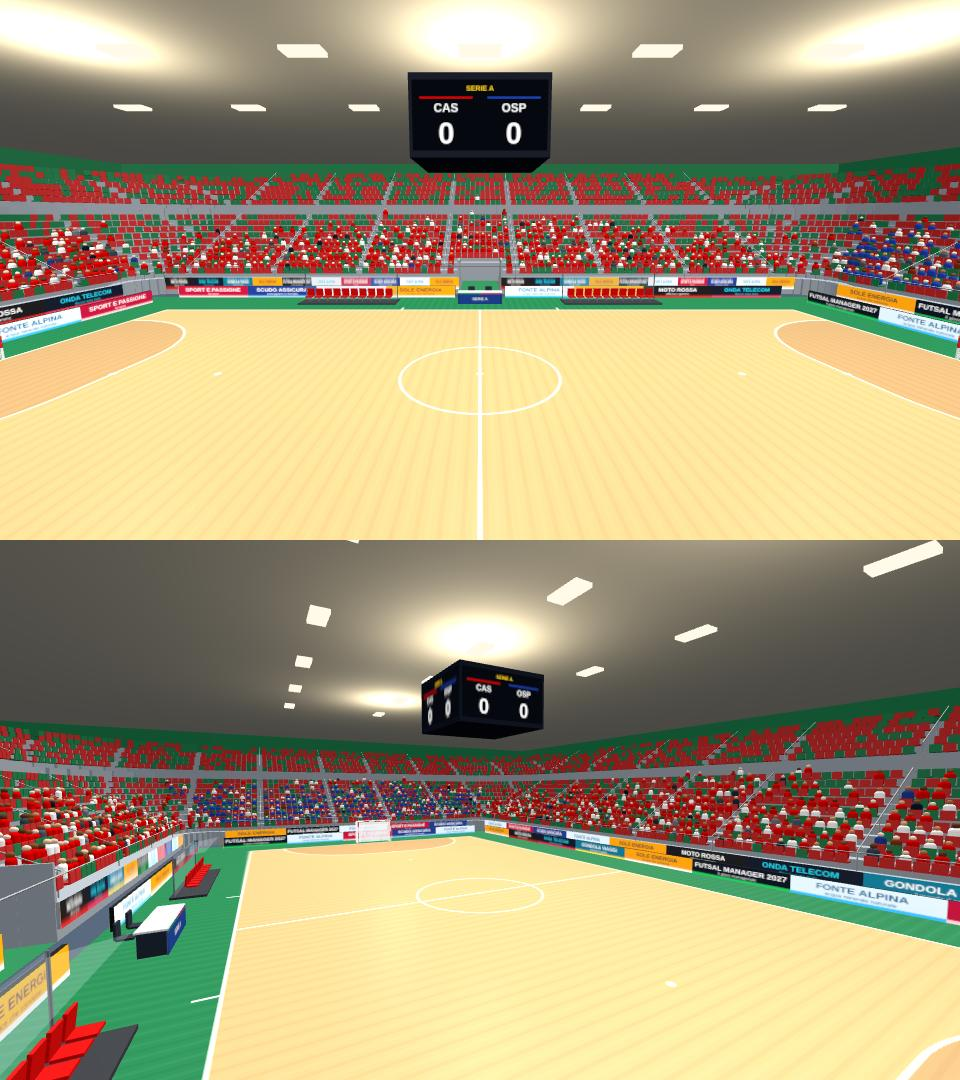
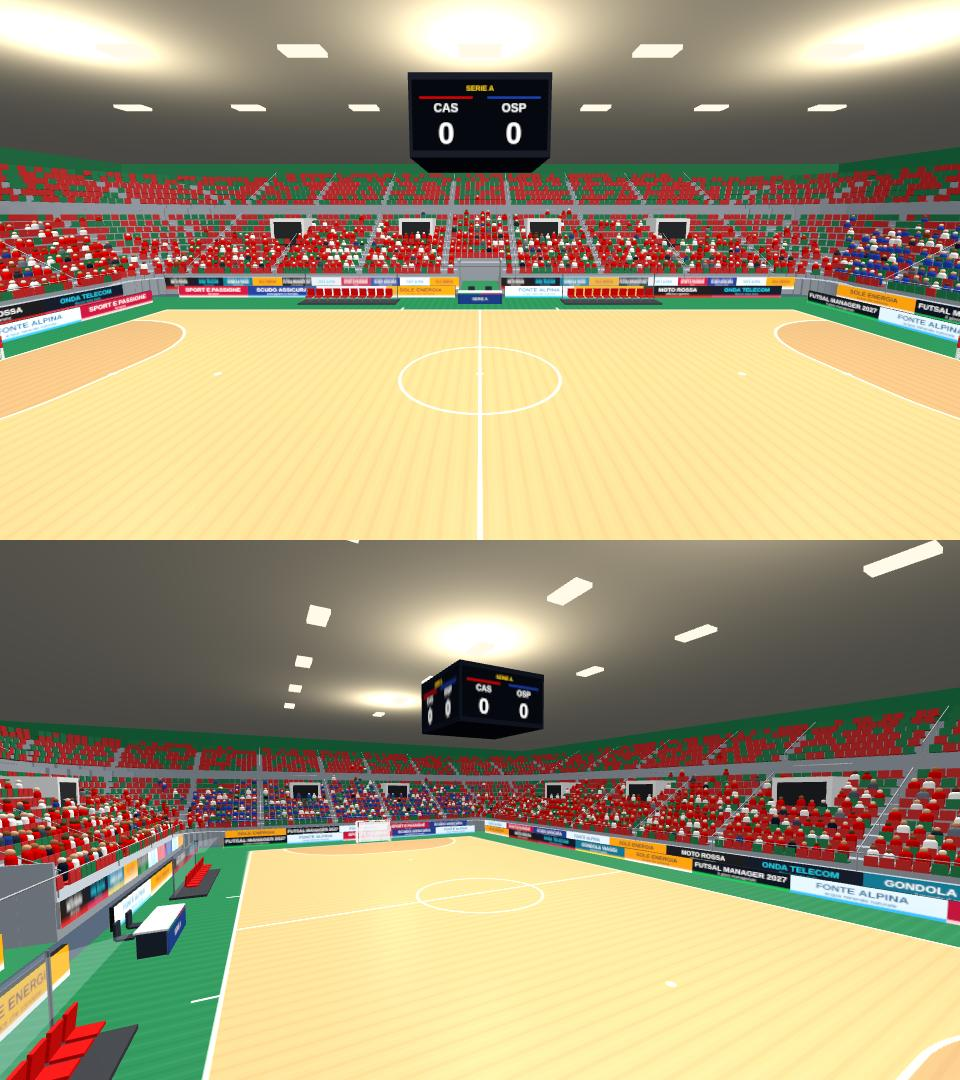
Pavilhões: entradas de setor (vomitórios) nas bancadas; Pala Del Mauro
Claude-Session: https://claude.ai/code/session_01Mc5vYwTA69tBmW3UkQyR97

Changed region(s): [[0.0, 0.1528, 1.0, 0.275], [0.0, 0.6417, 1.0, 0.825]]

diff --git a/src/core/attendance.ts b/src/core/attendance.ts
@@ -45,6 +45,7 @@ export interface ArenaProfile {
   aisles?: number; // escadas: um corredor a cada N lugares
   rake?: number; // subida por fila (m), 0,42 por omissão; bancadas mais íngremes > 0,42
   seatText?: { side: 'N' | 'S' | 'E' | 'W'; text: string; color: string }; // letras desenhadas com cadeiras de outra cor
+  vomitories?: number; // entradas de setor (vomitórios) em cada lateral (metade nos topos)
   rails?: string; // corrimãos metálicos ao longo das escadas e na frente das bancadas (cor)
   roofGap?: number; // espaço (m) entre a última fila e o teto (6 por omissão; bancadas quase até ao teto: ~2)
   track?: number; // pista de atletismo à volta da quadra: largura (m) que afasta as bancadas
@@ -100,7 +101,7 @@ export const ARENAS_ITA: Record<string, ArenaProfile> = {
   nap: { name: 'PalaVesuvio', capacity: 3711, capacityReal: true, track: 7, style: 'municipal', sides: ['N', 'S', 'E', 'W'], corners: true, seat: '#e5e7eb', wall: '#d6d8db', roof: 'treliça', windows: true, truss: '#4b5563', structure: 'trelicas', ceiling: '#2b2f36', aisles: 12, floor: IT_BLUE },
   l84: { name: 'Pala Maggiore', capacity: 1000, capacityReal: false, style: 'municipal', sides: ['N', 'S'], seat: '#b3262d', wall: '#efe9dc', roof: 'treliça', windows: true, beams: '#8a5a32', structure: 'vigas', ceiling: '#c9a27a', aisles: 12, floor: { court: '#d9b27a', surround: '#d9b27a', wood: true } },
   ebo: { name: 'PalaSele', capacity: 8000, capacityReal: true, style: 'moderno', sides: ['N', 'S', 'E', 'W'], corners: true, seat: '#1f4fb0', seatMix: ['#1f4fb0', '#9aa1a8'], wall: '#6b4a32', roof: 'abóbada', windows: false, beams: '#a0622f', structure: 'cupula', ceiling: '#8a5a30', truss: '#c9ced4', upperTier: true, tierGap: 'corredor', aisles: 14, rake: 0.5, floor: { court: '#1f5fd0', surround: '#7fe0c0', wood: true } },
-  ave: { name: 'Pala Del Mauro', capacity: 5300, capacityReal: true, rails: '#d9dde2', roofGap: 1.8, style: 'moderno', sides: ['N', 'S', 'E', 'W'], corners: true, seat: '#c62828', seatMix: ['#c62828', '#1f7a4a', '#c62828'], wall: '#1f7a4a', roof: 'laje', windows: false, ceiling: '#e8e0c8', structure: 'liso', upperTier: true, tierGap: 'corredor', aisles: 12, rake: 0.5, floor: { court: '#d9b27a', surround: '#1f7a4a', wood: true } },
+  ave: { name: 'Pala Del Mauro', capacity: 5300, capacityReal: true, rails: '#d9dde2', roofGap: 1.8, vomitories: 4, style: 'moderno', sides: ['N', 'S', 'E', 'W'], corners: true, seat: '#c62828', seatMix: ['#c62828', '#1f7a4a', '#c62828'], wall: '#1f7a4a', roof: 'laje', windows: false, ceiling: '#e8e0c8', structure: 'liso', upperTier: true, tierGap: 'corredor', aisles: 12, rake: 0.5, floor: { court: '#d9b27a', surround: '#1f7a4a', wood: true } },
   tre: { name: 'PalaCicogna', capacity: 1500, capacityReal: false, style: 'municipal', sides: ['N', 'S'], seat: '#9aa1a8', wall: '#e8c547', roof: 'abóbada', windows: true, beams: '#b0753a', structure: 'arcos', ceiling: '#c98e52', aisles: 12, floor: { court: '#d9b27a', surround: '#2f8a4f', wood: true } },
   sal: { name: 'Centro Sportivo Meridionale', capacity: 800, capacityReal: false, style: 'clube', sides: ['N', 'S'], benches: true, seat: '#a8a29e', wall: '#f2f2ef', roof: 'laje', windows: true, beams: '#e3b81f', pillars: '#c9a227', ceiling: '#f2f2ef', floor: { court: '#d6a066', surround: '#d6a066', wood: true } },
   rom: { name: 'PalaCesaroni', capacity: 2000, capacityReal: true, style: 'municipal', sides: ['N', 'S'], seat: '#c62828', wall: '#2b3a8a', roof: 'abóbada', windows: false, beams: '#9a5a2a', structure: 'arcos', ceiling: '#a8683a', aisles: 12, rake: 0.46, floor: { court: '#d9b27a', surround: '#c62828', area: '#3a6fd1', wood: true } },

diff --git a/src/ui/three/arena3d.ts b/src/ui/three/arena3d.ts
@@ -575,6 +575,11 @@ export function buildArena(scene: THREE.Scene, o: ArenaOpts): ArenaHandle {
     const out = sd === 'N' || sd === 'W' ? -1 : 1; // para fora do campo
     let left = cap;
     const split = splitAt(rows);
+    // entradas de setor (vomitórios): aberturas no meio da bancada, com 3 filas de altura e 2,4 m de largura
+    const vN = pr.vomitories ? (sd === 'N' || sd === 'S' ? pr.vomitories : Math.max(1, Math.round(pr.vomitories / 2))) : 0;
+    const vU = Array.from({ length: vN }, (_, i) => (-0.5 + (i + 0.5) / vN) * (sideLen[sd] - 4)).filter((u) => !(gap && Math.abs(u) < gap / 2 + 1.5));
+    const vR0 = Math.max(1, Math.round(rows * 0.3)), vR1 = vR0 + 2;
+    const inVom = (u: number, row: number) => row >= vR0 && row <= vR1 && vU.some((x) => Math.abs(u - x) < 1.3);
     for (let rI = 0; rI < rows; rI++) {
       // segundo anel: recua e sobe, com camarotes envidraçados (ou só um corredor) no intervalo
       const up = rI >= split;
@@ -626,6 +631,7 @@ export function buildArena(scene: THREE.Scene, o: ArenaOpts): ArenaHandle {
       for (let k = 0; k < tot; k++) {
         const u = (k - (tot - 1) / 2) * seatW;
         if (pr.aisles && Math.round(Math.abs(u) / seatW) % (pr.aisles + 1) === Math.floor(pr.aisles / 2)) continue; // escadas
+        if (inVom(u, rI)) continue; // entrada de setor
         if (Math.abs(u) > gap / 2 + 0.2 || !gap || overTunnel) us.push(u);
       }
       us.sort((a, b) => Math.abs(a) - Math.abs(b));
@@ -636,6 +642,17 @@ export function buildArena(scene: THREE.Scene, o: ArenaOpts): ArenaHandle {
         if (isBench(sd, rI)) p.y -= 0.3;
         if (pr.standing) p.y += 0.4;
         seats.push({ p, ry, side: sd, row: rI, u, txt: !!textMask && pr.seatText!.side === sd && textMask(u, rI, rows, sideLen[sd]) });
+      }
+    }
+    if (vU.length) {
+      const dark = new THREE.MeshStandardMaterial({ color: '#1b1f24', roughness: 0.9 }), white = new THREE.MeshStandardMaterial({ color: '#eef0f2', roughness: 0.6 });
+      const dIn = front[sd] + vR0 * rowD, yIn = base + vR0 * rise, depth = (vR1 - vR0 + 1) * rowD, hgt = (vR1 - vR0 + 1) * rise + 1.2;
+      for (const u of vU) {
+        const put = (m: THREE.Mesh, uu: number, dd: number, yy: number) => { if (sd === 'N' || sd === 'S') m.position.set(uu, yy, out * dd); else { m.rotation.y = Math.PI / 2; m.position.set(out * dd, yy, uu); } scene.add(m); };
+        put(new THREE.Mesh(new THREE.BoxGeometry(2.4, hgt, depth), dark), u, dIn + depth / 2, yIn - 1 + hgt / 2); // boca escura do túnel de acesso
+        for (const sg of [-1, 1]) put(new THREE.Mesh(new THREE.BoxGeometry(0.25, hgt + 0.1, depth + 0.1), white), u + sg * 1.32, dIn + depth / 2, yIn - 1 + hgt / 2); // paredes brancas
+        put(new THREE.Mesh(new THREE.BoxGeometry(2.9, 0.3, depth + 0.1), white), u, dIn + depth / 2, yIn - 1 + hgt + 0.15); // laje por cima
+        if (pr.rails) put(new THREE.Mesh(new THREE.BoxGeometry(2.9, 0.05, 0.05), new THREE.MeshStandardMaterial({ color: pr.rails, metalness: 0.6, roughness: 0.35 })), u, dIn + depth + 0.05, yIn - 1 + hgt + 1.1); // grade em cima
       }
     }
     // corrimãos (ex.: Pala Del Mauro): ao longo de cada escada, a subir com os degraus, e na frente da bancada

diff --git a/HANDOFF.md b/HANDOFF.md
@@ -421,5 +421,5 @@ Todas as ferramentas em `tools/diag` correm com: `npx esbuild <ficheiro> --bundl
 - PR #8 já está em `main` (aprovada pelo António).
 - Atributos (moneyball): 1 299 fichas de jogo oficiais da Serie A e play-off 2021/22-2026/27 (`tools/ita/collect_matches.py` + `build_matchstats.py`) → jogos, golos e cartões por época para 204 de 207 jogadores (épocas italianas substituem as do futsalportugal). Jogos = 5 iniciais + quem entrou; nas fichas sem substituições (muitas desde 2024/25) contam todos os da ficha (estimativa). Clubes italianos em `TEAM_LEVELS`/`LEAGUE_OF` (Serie A = 70, estimativa). Nível médio dos 8 melhores subiu ~0,9 (Roma, Catania, Giovinazzo mais). Sem assistências nem minutos (não publicados).
 - Equipamentos (3/11): 15 padrões (`KitPattern` em kits.ts, desenho comum ao 3D e SVG em `src/ui/kitPattern.ts`), mangas, gola, punhos (`cuffs`), risca lateral dos calções (`shortsStripe`) e GR real (`ClubKits.goalkeeper`, usado se não chocar). Itália: equipamentos reais dos 14 clubes a partir das fotos/notas do António (Petrarca pela descrição); imagem em `docs/equipamentos_italia.png`.
-- Pavilhões (3/11): 13 interiores italianos (`ARENAS_ITA` em attendance.ts) a partir das fotos do António; lado sem foto repete o oposto (pedido do António). Lotações do António: Del Mauro 5 300, PalaCesaroni 2 000, Pala Pinto 2 500. Palazzetto Guazzaroni (Active Network) sem fotos: genérico. Vista 3D em `docs/pavilhoes_italia.jpg`. Pala Del Mauro com corrimãos (`rails`) e bancadas até perto do teto (`roofGap` 1,8 m). PalaVesuvio com pista de atletismo (`ArenaProfile.track`, 7 m: as bancadas recuam e a pista é desenhada à volta; `docs/palavesuvio_pista.jpg`).
+- Pavilhões (3/11): 13 interiores italianos (`ARENAS_ITA` em attendance.ts) a partir das fotos do António; lado sem foto repete o oposto (pedido do António). Lotações do António: Del Mauro 5 300, PalaCesaroni 2 000, Pala Pinto 2 500. Palazzetto Guazzaroni (Active Network) sem fotos: genérico. Vista 3D em `docs/pavilhoes_italia.jpg`. Pala Del Mauro com corrimãos (`rails`), entradas de setor (`vomitories`, 4 por lateral, 2 por topo) e bancadas até perto do teto (`roofGap` 1,8 m). PalaVesuvio com pista de atletismo (`ArenaProfile.track`, 7 m: as bancadas recuam e a pista é desenhada à volta; `docs/palavesuvio_pista.jpg`).
 - Jogo rápido (3/11, pedido do António; `src/ui/screens/quick.ts`, botão no menu inicial): qualquer equipa das 3 ligas contra qualquer outra, em qualquer pavilhão (`Fixture.arenaId`, lido em `arenaOf`) ou campo neutro; escolhe quem controlo (casa, fora ou só ver) e se é a eliminar. Estado temporário (`newGame`), não é gravado. Competição/marcador/árbitros/anúncios pela liga da equipa da casa.
